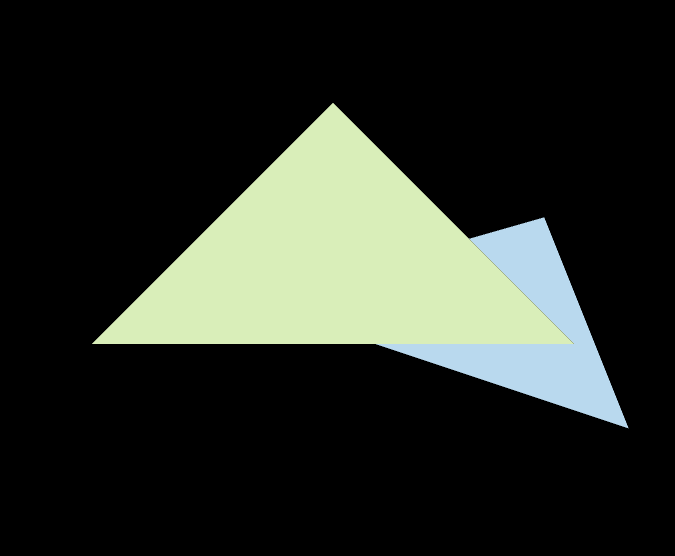
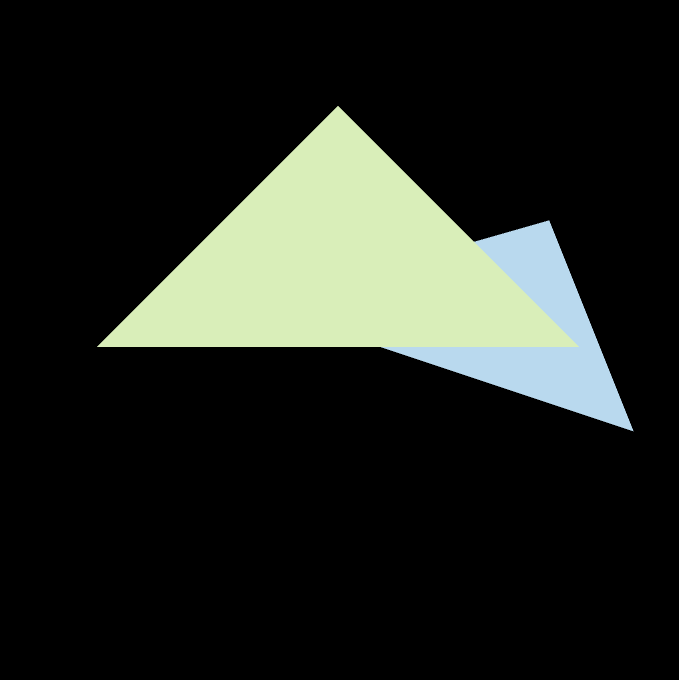
update homework2 MSAA Problem

Changed region(s): [[0.1244, 0.1529, 0.9333, 0.7644]]

diff --git a/Homework2/ZiqiYang_Homework2/rasterizer.cpp b/Homework2/ZiqiYang_Homework2/rasterizer.cpp
@@ -129,7 +129,6 @@ void rst::rasterizer::rasterize_triangle(const Triangle& t) {
     float bbtop = std::floor(std::min(v[0][1], std::min(v[1][1], v[2][1])));
     float bbbottom = std::floor(std::max(v[0][1], std::max(v[1][1], v[2][1])));
 
-    bool usingMSAA = true;
 
     if (usingMSAA)
     {
@@ -141,12 +140,15 @@ void rst::rasterizer::rasterize_triangle(const Triangle& t) {
             {0.25,0.75}, // left-bottom
             {0.75,0.75}  // right-bottom
         };
+
         for (int i = bbleft; i <= bbright; ++i)
         {
             for (int j = bbtop; j <= bbbottom; ++j)
             {
                 int count = 0;
-                float minDepth = INFINITY;
+                int ind = get_index(i, j);
+                frame_buf[ind] = { 0,0,0 };
+
                 for (int MSAA_4 = 0; MSAA_4 < 4; ++MSAA_4)
                 {
                     if (insideTriangle(i + pos[MSAA_4][0], j + pos[MSAA_4][1], t.v))
@@ -156,18 +158,14 @@ void rst::rasterizer::rasterize_triangle(const Triangle& t) {
                         float z_interpolated = alpha * v[0].z() / v[0].w() + beta * v[1].z() / v[1].w() + gamma * v[2].z() / v[2].w();
                         z_interpolated *= w_reciprocal;
 
-                        minDepth = std::min(minDepth, z_interpolated);
-                        ++count;
+                        if (depth_buf[get_index_msaa((i + pos[MSAA_4][0] - 0.25) * 2, (j + pos[MSAA_4][1] - 0.25) * 2)] > z_interpolated) {
+                            depth_buf[get_index_msaa((i + pos[MSAA_4][0] - 0.25) * 2, (j + pos[MSAA_4][1] - 0.25) * 2)] = z_interpolated;//update depth
+                            color_buf[get_index_msaa((i + pos[MSAA_4][0] - 0.25) * 2, (j + pos[MSAA_4][1] - 0.25) * 2)] = t.getColor();
+                            count++;
+                        }
                     }
-                }
-                if (count != 0)
-                {
-                    // here need to use the minDepth from MSAA to avoid abnormal case (empty line)
-                    if (depth_buf[get_index(i, j)] > minDepth)
-                    {
-                        depth_buf[get_index(i, j)] = minDepth;//update depth
-                        set_pixel({ static_cast<float>(i),static_cast<float>(j),minDepth }, t.getColor() * (count / 4.0));//blurring color
-                    }
+                    // recalculate the avg color from the MSAA color_buf maintained
+                    frame_buf[ind] += color_buf[get_index_msaa((i + pos[MSAA_4][0] - 0.25) * 2, (j + pos[MSAA_4][1] - 0.25) * 2)] / 4;
                 }
             }
         }
@@ -217,16 +215,22 @@ void rst::rasterizer::clear(rst::Buffers buff)
     if ((buff & rst::Buffers::Color) == rst::Buffers::Color)
     {
         std::fill(frame_buf.begin(), frame_buf.end(), Eigen::Vector3f{ 0, 0, 0 });
+        std::fill(color_buf.begin(), color_buf.end(), Eigen::Vector3f{ 0, 0, 0 });
     }
     if ((buff & rst::Buffers::Depth) == rst::Buffers::Depth)
     {
         std::fill(depth_buf.begin(), depth_buf.end(), std::numeric_limits<float>::infinity());
     }
 }
-
 rst::rasterizer::rasterizer(int w, int h) : width(w), height(h)
 {
     frame_buf.resize(w * h);
+
+    if (usingMSAA) { // check if use MSAA
+        w = w * 4 + 100;
+    }
+
+    color_buf.resize(w * h);
     depth_buf.resize(w * h);
 }
 
@@ -235,12 +239,18 @@ int rst::rasterizer::get_index(int x, int y)
     return (height - 1 - y) * width + x;
 }
 
+int rst::rasterizer::get_index_msaa(int x, int y)
+{
+    return (height * 2 - 1 - y) * width * 2 + x;
+}
+
+
 void rst::rasterizer::set_pixel(const Eigen::Vector3f& point, const Eigen::Vector3f& color)
 {
     //old index: auto ind = point.y() + point.x() * width;
     auto ind = (height - 1 - point.y()) * width + point.x();
     frame_buf[ind] = color;
-
 }
 
 // clang-format on
+

diff --git a/Homework2/ZiqiYang_Homework2/rasterizer.hpp b/Homework2/ZiqiYang_Homework2/rasterizer.hpp
@@ -74,6 +74,8 @@ namespace rst
 
         std::vector<Eigen::Vector3f>& frame_buffer() { return frame_buf; }
 
+        bool usingMSAA{ true };
+
     private:
         void draw_line(Eigen::Vector3f begin, Eigen::Vector3f end);
 
@@ -91,9 +93,10 @@ namespace rst
         std::map<int, std::vector<Eigen::Vector3f>> col_buf;
 
         std::vector<Eigen::Vector3f> frame_buf;
-
+        std::vector<Eigen::Vector3f> color_buf; // for MSAA
         std::vector<float> depth_buf;
         int get_index(int x, int y);
+        int get_index_msaa(int x, int y);
 
         int width, height;
 

diff --git a/Homework2/ZiqiYang_Homework2/main.cpp b/Homework2/ZiqiYang_Homework2/main.cpp
@@ -152,6 +152,10 @@ int main(int argc, const char** argv)
         key = cv::waitKey(10);
 
         std::cout << "frame count: " << frame_count++ << '\n';
+
+        if (key = 'a') {
+            r.usingMSAA = !r.usingMSAA;
+        }
     }
 
     return 0;

diff --git a/Homework2/ZiqiYang_Homework2/README.md b/Homework2/ZiqiYang_Homework2/README.md
@@ -1,13 +1,15 @@
+ref[MSAA中黑线问题的出现原因以及解决方案]: (http://games-cn.org/forums/topic/%E3%80%90%E6%80%BB%E7%BB%93%E3%80%91msaa%E4%B8%AD%E9%BB%91%E7%BA%BF%E9%97%AE%E9%A2%98%E7%9A%84%E5%87%BA%E7%8E%B0%E5%8E%9F%E5%9B%A0%E4%BB%A5%E5%8F%8A%E8%A7%A3%E5%86%B3%E6%96%B9%E6%A1%88/)
+
 Implementation：
 
 ![withoutMSAA](withoutMSAA.png)
 
 - rasterization with bounding box
-
 - check if any point is inside the triangle（change the first two params. as float）
 - z-buffer
 - MSAA 
+  - maintain extra MSAA depth_buffer & color_buffer (to mix up final colors to eliminate abnormal line at the intersection btw two tris.)
+  - more like an SSAA
+  - press 'a' to switch the mode btw MSAA and normal case
 
-![withMSAA](withMSAA.png)
-
-> Note/Question: to eliminate the abnormal black line inside the intersection btw two triangles, it seems that we need to keep updating an extra color buffer in order to procure the final avg. color of the mixed green and blue color rather than rendering them sequentially. Otherwise it seems unlikely to cut it off. 
+![withMSAA.png](withMSAA.png)
